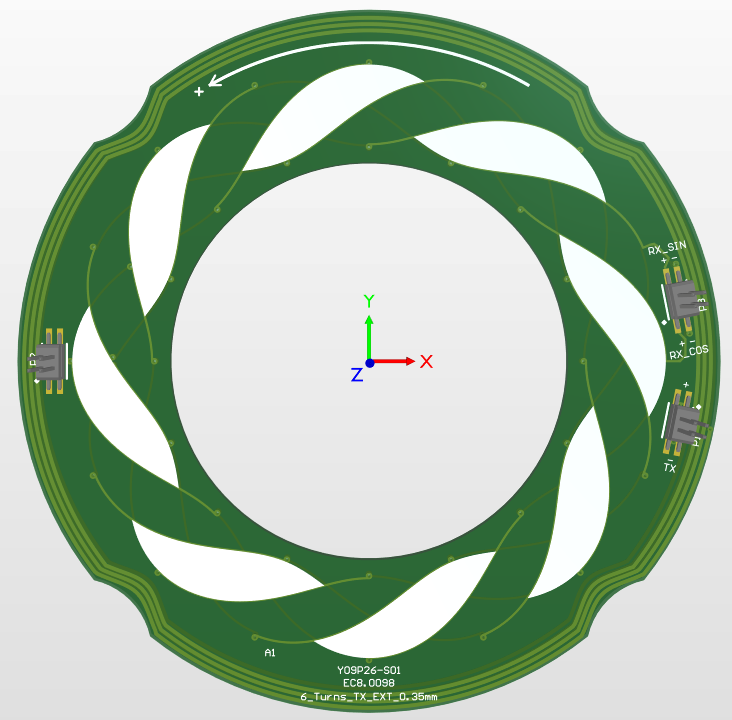
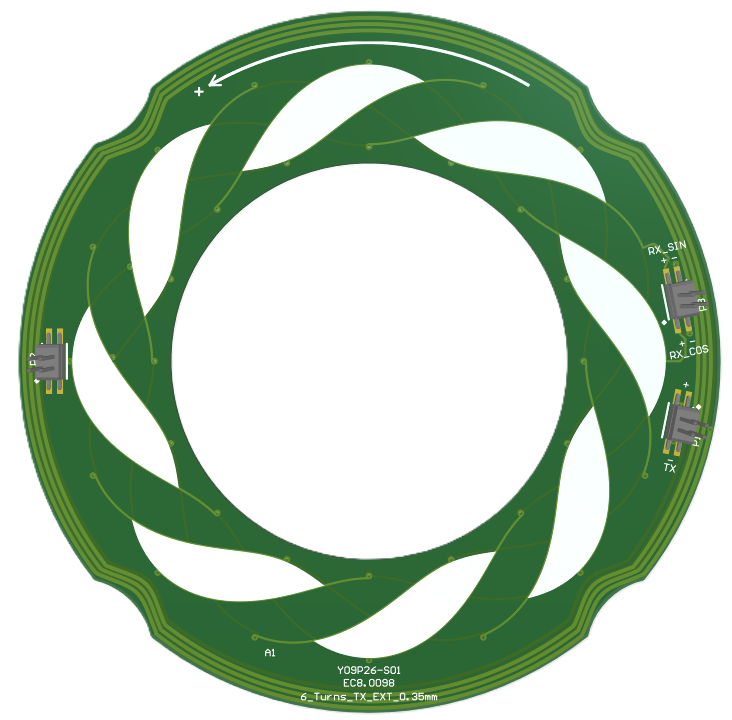
README

diff --git a/README.md b/README.md
@@ -1,5 +1,5 @@
 # Bucaneve
 
 <p align="center">
-  ![Alt text](HW/coil_board/coil_board.png?raw=true "Bucaneve")
+  <img src=HW/coil_board/coil_board.png />
 </p>
